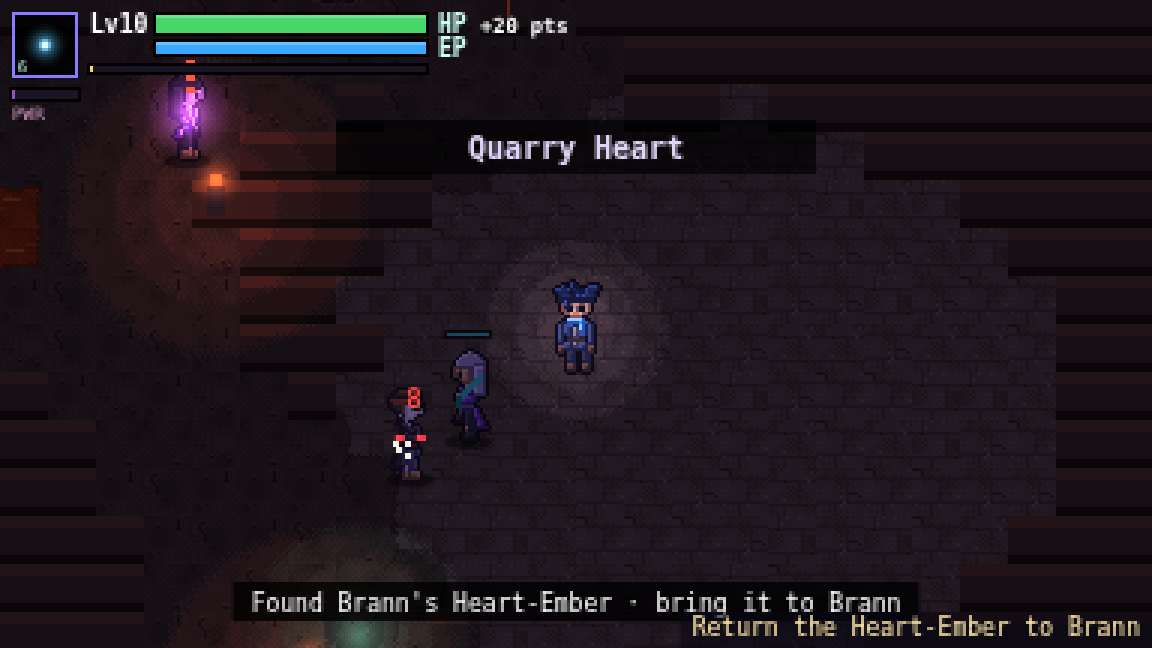
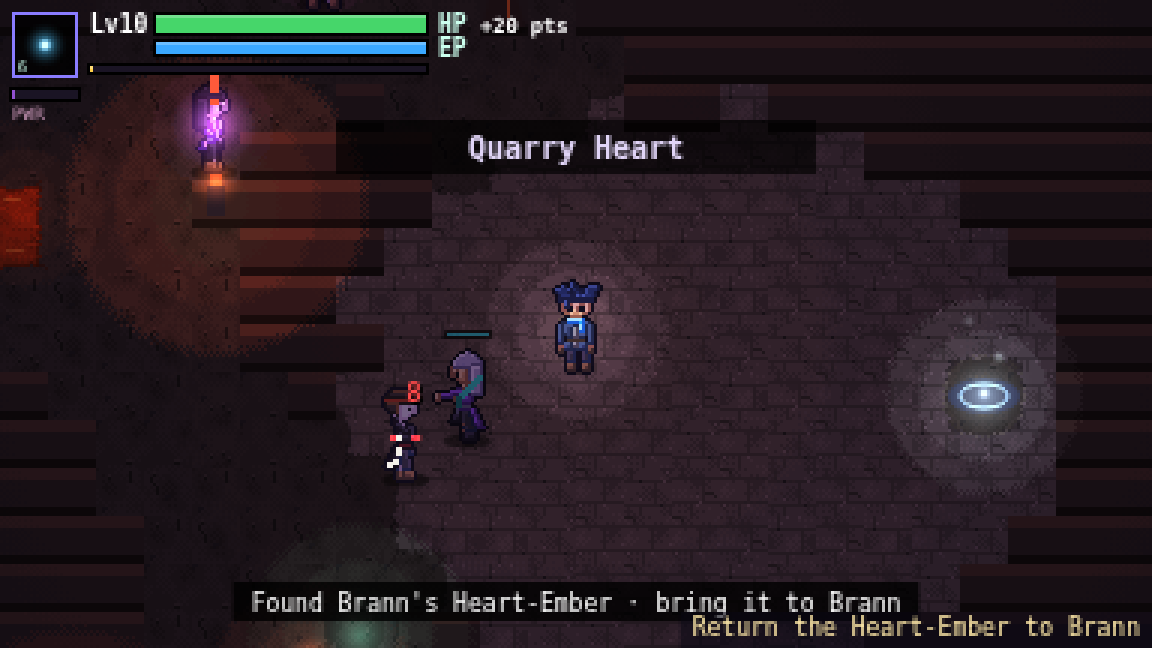
W8: quarry lighting, post-quarry-boss beat (quarryBossDown), area 4 Drowned Vesper

diff --git a/src/areas/art.ts b/src/areas/art.ts
@@ -8,23 +8,24 @@ import { groundSet, drawGround, type GroundSet, type Kind } from "./groundgen";
 type C2 = CanvasRenderingContext2D;
 const PAL = {
   moss: { floor: ["#3d3a46", "#383542"], moss: ["#33452f", "#2f402b"], path: ["#5a4c3c", "#54473a"], wall: ["#3a3448", "#4c4560", "#231f2e"], water: ["#1c2a4a", "#22325a"] },
+  tide: { floor: ["#2a3a40", "#26363c"], moss: ["#1e3a3a", "#1c3636"], path: ["#3c4a4a", "#384646"], wall: ["#2a3438", "#4a5a5c", "#141c20"], water: ["#0e4a5a", "#125664"] },
   ember: { floor: ["#3a2e2a", "#362a26"], moss: ["#2e2626", "#2a2222"], path: ["#5a4232", "#54402e"], wall: ["#3a2a28", "#5a3a30", "#1e1412"], water: ["#8a2a10", "#a03a14"] },
   marsh: { floor: ["#2f3440", "#2b303b"], moss: ["#2c3a3a", "#283636"], path: ["#4a4438", "#454034"], wall: ["#2e2a3e", "#403a56", "#1c1828"], water: ["#241a44", "#2c2052"] },
 };
 
-const GPAL = { moss: { spore: "#6ad8ff", plaza: "#544c5a" }, marsh: { spore: "#b48aff", plaza: "#4c4652" }, ember: { spore: "#ff8a4a", plaza: "#5a4a44" } };
-const GSETS: Partial<Record<"moss" | "marsh" | "ember", GroundSet>> = {};
-const gset = (t: "moss" | "marsh" | "ember") => (GSETS[t] ??= groundSet({ floor: PAL[t].floor[0], moss: PAL[t].moss[0], path: PAL[t].path[0], water: PAL[t].water[0], ...GPAL[t] }, t === "moss" ? 1 : t === "marsh" ? 2 : 3));
+const GPAL = { moss: { spore: "#6ad8ff", plaza: "#544c5a" }, marsh: { spore: "#b48aff", plaza: "#4c4652" }, ember: { spore: "#ff8a4a", plaza: "#6a5650" }, tide: { spore: "#7affe0", plaza: "#4e5e60" } };
+const GSETS: Partial<Record<"moss" | "marsh" | "ember" | "tide", GroundSet>> = {};
+const gset = (t: "moss" | "marsh" | "ember" | "tide") => (GSETS[t] ??= groundSet({ floor: PAL[t].floor[0], moss: PAL[t].moss[0], path: PAL[t].path[0], water: PAL[t].water[0], ...GPAL[t] }, t === "moss" ? 1 : t === "marsh" ? 2 : t === "ember" ? 3 : 4));
 const KIND: Record<number, Kind> = { [T_FLOOR]: "floor", [T_MOSS]: "moss", [T_PATH]: "path", [T_PLAZA]: "plaza", [T_WATER]: "water", [T_HIDDEN]: "water", [T_WARD]: "floor" };
 
-export function tile(c: C2, theme: "moss" | "marsh" | "ember", v: number, X: number, Y: number, tx: number, ty: number, time: number, tiles?: Uint8Array) {
+export function tile(c: C2, theme: "moss" | "marsh" | "ember" | "tide", v: number, X: number, Y: number, tx: number, ty: number, time: number, tiles?: Uint8Array) {
   if (v === T_HIDDEN) v = T_WATER;
   const P = PAL[theme], ch = (tx + ty) & 1;
   const k = KIND[v];
   if (tiles && k && v !== T_WARD) {
     const G = gset(theme);
     drawGround(c, G, k, X, Y, tx, ty, (dx, dy) => { const x = tx + dx, y = ty + dy; return x < 0 || y < 0 || x >= MW || y >= MH ? null : KIND[tiles[y * MW + x]] ?? null; });
-    if (v === T_WATER) { const w = Math.sin(time * 1.6 + tx * 0.9 + ty * 1.3); c.fillStyle = (theme === "marsh" ? "rgba(190,140,255,.22)" : theme === "ember" ? "rgba(255,200,80,.35)" : "rgba(120,200,255,.18)"); c.fillRect(X + 3 + Math.round(w * 2), Y + 6 + ((tx * 5 + ty) % 6), 6, 1); }
+    if (v === T_WATER) { const w = Math.sin(time * 1.6 + tx * 0.9 + ty * 1.3); c.fillStyle = (theme === "marsh" ? "rgba(190,140,255,.22)" : theme === "ember" ? "rgba(255,200,80,.35)" : theme === "tide" ? "rgba(122,255,224,.25)" : "rgba(120,200,255,.18)"); c.fillRect(X + 3 + Math.round(w * 2), Y + 6 + ((tx * 5 + ty) % 6), 6, 1); }
     return;
   }
   if (v === T_WALL) { c.fillStyle = P.wall[0]; c.fillRect(X, Y, TILE, TILE); c.fillStyle = P.wall[1]; c.fillRect(X, Y, TILE, 4); c.fillStyle = P.wall[2]; c.fillRect(X, Y + 13, TILE, 3); }
@@ -32,7 +33,7 @@ export function tile(c: C2, theme: "moss" | "marsh" | "ember", v: number, X: num
   else if (v === T_WATER) {
     c.fillStyle = P.water[ch]; c.fillRect(X, Y, TILE, TILE);
     const k = Math.sin(time * 1.6 + tx * 0.9 + ty * 1.3);
-    c.fillStyle = (theme === "marsh" ? "rgba(190,140,255,.22)" : theme === "ember" ? "rgba(255,200,80,.35)" : "rgba(120,200,255,.18)"); c.fillRect(X + 3 + Math.round(k * 2), Y + 6 + ((tx * 5 + ty) % 6), 6, 1);
+    c.fillStyle = (theme === "marsh" ? "rgba(190,140,255,.22)" : theme === "ember" ? "rgba(255,200,80,.35)" : theme === "tide" ? "rgba(122,255,224,.25)" : "rgba(120,200,255,.18)"); c.fillRect(X + 3 + Math.round(k * 2), Y + 6 + ((tx * 5 + ty) % 6), 6, 1);
   }
   else if (v === T_BOARD) { if (tiles) c.drawImage(gset(theme).base.water[(tx * 7 + ty * 3) & 3], X, Y); else { c.fillStyle = P.water[ch]; c.fillRect(X, Y, TILE, TILE); } c.fillStyle = "#6a5038"; c.fillRect(X + 1, Y, TILE - 2, TILE); c.fillStyle = "#4a3828"; for (let i = 0; i < 4; i++) c.fillRect(X + 1, Y + i * 4 + 3, TILE - 2, 1); }
   else if (v === T_WARD) {
@@ -51,6 +52,21 @@ function forge(c: C2, x: number, y: number) {
   c.fillStyle = "#2a2226"; c.beginPath(); c.moveTo(x - 24, y - 9); c.lineTo(x, y - 24); c.lineTo(x + 24, y - 9); c.fill();
   c.fillStyle = "#3a3036"; c.beginPath(); c.moveTo(x - 20, y - 10); c.lineTo(x, y - 21); c.lineTo(x + 20, y - 10); c.fill();
   c.fillStyle = "#5a4a44"; c.fillRect(x + 9, y - 28, 6, 14); c.fillStyle = "#ff6a2a"; c.fillRect(x + 10, y - 29, 4, 2);
+}
+function dome(c: C2, x: number, y: number) {
+  // tide-theme house: half-drowned stone dome with a cracked sun disc over the door
+  c.fillStyle = "rgba(0,0,0,.4)"; c.beginPath(); c.ellipse(x, y + 10, 26, 6, 0, 0, 7); c.fill();
+  c.fillStyle = "#4a5a5c"; c.fillRect(x - 18, y - 8, 36, 18); c.fillStyle = "#3a484a"; c.fillRect(x - 18, y + 4, 36, 6);
+  c.fillStyle = "#5e7072"; c.beginPath(); c.ellipse(x, y - 8, 20, 14, 0, Math.PI, 0); c.fill();
+  c.fillStyle = "#2a8a7a"; for (const dx of [-14, -6, 9, 15]) c.fillRect(x + dx, y - 6, 2, 10);
+  c.fillStyle = "#10262a"; c.beginPath(); c.ellipse(x, y + 2, 5, 8, 0, Math.PI, 0); c.fill(); c.fillRect(x - 5, y + 2, 10, 8);
+  c.fillStyle = "#c8b060"; c.beginPath(); c.arc(x, y - 14, 4, 0, 7); c.fill(); c.fillStyle = "#5e7072"; c.fillRect(x + 1, y - 18, 1, 8);
+  c.fillStyle = "#7affe0"; c.fillRect(x - 12, y - 2, 3, 3); c.fillRect(x + 10, y - 2, 3, 3);
+}
+function pillar(c: C2, x: number, y: number) {
+  c.fillStyle = "rgba(0,0,0,.35)"; c.beginPath(); c.ellipse(x, y + 5, 8, 3, 0, 0, 7); c.fill();
+  c.fillStyle = "#5e7072"; c.fillRect(x - 5, y - 20, 10, 25); c.fillStyle = "#4a5a5c"; c.fillRect(x - 5, y - 20, 3, 25); c.fillStyle = "#788a8c"; c.fillRect(x - 7, y - 23, 14, 4);
+  c.fillStyle = "#2a8a7a"; c.fillRect(x - 3, y - 6, 2, 9); c.fillRect(x + 2, y - 12, 2, 5); c.fillStyle = "#7affe0"; c.fillRect(x + 2, y - 13, 1, 1);
 }
 function house(c: C2, x: number, y: number) {
   // 3x2 tile footprint centred at (x, y): wooden walls under a giant blue mushroom cap
@@ -114,7 +130,7 @@ export function worldSprites(c: C2, g: Game, cx: number, cy: number, list: { y: 
   for (const p of a.props) {
     const X = p.x - cx, Y = p.y - cy;
     if (X < -40 || X > 424 || Y < -40 || Y > 260) continue;
-    list.push({ y: p.y + (p.kind === "house" ? 8 : 0), d: () => p.kind === "house" ? (a.theme === "ember" ? forge(c, X, Y) : house(c, X, Y)) : p.kind === "crystal" ? crystal(c, X, Y) : p.kind === "tree" ? (a.theme === "ember" ? spire(c, X, Y) : tree(c, X, Y, marsh)) : grave(c, X, Y) });
+    list.push({ y: p.y + (p.kind === "house" ? 8 : 0), d: () => p.kind === "house" ? (a.theme === "ember" ? forge(c, X, Y) : a.theme === "tide" ? dome(c, X, Y) : house(c, X, Y)) : p.kind === "crystal" ? crystal(c, X, Y) : p.kind === "tree" ? (a.theme === "ember" ? spire(c, X, Y) : a.theme === "tide" ? pillar(c, X, Y) : tree(c, X, Y, marsh)) : grave(c, X, Y) });
   }
   for (const n of a.npcs) list.push({ y: n.y, d: () => npc(c, n.id, a.id, n.x - cx, n.y - cy, g.time) });
   for (const s of a.travel) {
@@ -129,7 +145,12 @@ export function bindStory(s: Story) { st = s; }
 /** Light sources for the multiply layer. */
 export function worldLights(g: Game, cx: number, cy: number, add: (x: number, y: number, r: number, col: [number, number, number], f: number) => void) {
   for (const p of g.area.props) if (p.kind === "crystal") add(p.x - cx, p.y - cy - 8, 40, [0.45, 0.95, 1], 0);
-  for (const p of g.area.props) if (p.kind === "house") add(p.x - cx, p.y - cy - 12, 56, g.area.theme === "ember" ? [1, 0.5, 0.2] : [0.35, 0.55, 1], 0);
+  for (const p of g.area.props) if (p.kind === "house") add(p.x - cx, p.y - cy - 12, 56, g.area.theme === "ember" ? [1, 0.5, 0.2] : g.area.theme === "tide" ? [0.3, 0.9, 0.8] : [0.35, 0.55, 1], 0);
+  if (g.area.theme === "ember" || g.area.theme === "tide") { // lava / glowing canals light the scene
+    const t = g.area.tiles, x0 = Math.max(0, Math.floor(cx / 16)), y0 = Math.max(0, Math.floor(cy / 16));
+    for (let ty = y0; ty < Math.min(34, y0 + 15); ty += 2) for (let tx = x0; tx < Math.min(48, x0 + 25); tx += 2) if (t[ty * 48 + tx] === T_WATER) add(tx * 16 + 8 - cx, ty * 16 + 8 - cy, 44, g.area.theme === "ember" ? [0.55, 0.22, 0.08] : [0.1, 0.35, 0.35], 0);
+    if (g.area.id === "emberquarry") add(192, 108, 320, [0.16, 0.1, 0.07], 0);
+  }
   for (const s of g.area.travel) add(s.x - cx, s.y - cy, 52, [0.7, 0.9, 1], 0);
   for (const n of g.area.npcs) add(n.x - cx, n.y - cy - 12, 30, [0.8, 0.75, 0.7], 0);
   for (const s of g.area.springs) add(s.x - cx, s.y - cy, 60, [0.5, 1, 0.8], 0);
@@ -140,7 +161,7 @@ export function worldGlow(c: C2, g: Game, cx: number, cy: number, glow: (c: C2, 
   for (const p of g.area.props) {
     if (p.kind === "house") { glow(c, p.x - cx, p.y - cy - 16, 22, g.area.theme === "ember" ? "rgba(255,120,40,.35)" : "rgba(80,140,255,.35)"); glow(c, p.x - cx - 10, p.y - cy - 2, 5, "rgba(255,210,140,.7)"); glow(c, p.x - cx + 10, p.y - cy - 2, 5, "rgba(255,210,140,.7)"); }
     else if (p.kind === "crystal") glow(c, p.x - cx + 2, p.y - cy - 8, 14, "rgba(120,240,255,.5)");
-    else if (p.kind === "tree") glow(c, p.x - cx, p.y - cy - 17, 10, g.area.theme === "marsh" ? "rgba(170,110,255,.45)" : g.area.theme === "ember" ? "rgba(255,110,40,.4)" : "rgba(90,220,240,.4)");
+    else if (p.kind === "tree") glow(c, p.x - cx, p.y - cy - 17, 10, g.area.theme === "marsh" ? "rgba(170,110,255,.45)" : g.area.theme === "ember" ? "rgba(255,110,40,.4)" : g.area.theme === "tide" ? "rgba(122,255,224,.35)" : "rgba(90,220,240,.4)");
   }
   for (const s of g.area.springs) {
     const X = s.x - cx, Y = s.y - cy, k = 0.6 + 0.4 * Math.sin(g.time * 2.4);
@@ -196,7 +217,7 @@ export function storyOverlay(c: C2, g: Game, s: Story, W: number, H: number) {
 /** Lens map of the current area: terrain, zone names, hearthstone, stones, NPCs, foes, hero. */
 export function areaMap(c: C2, g: Game, ox: number, oy: number, s: number) {
   const a = g.area, M = 48;
-  const col: Record<number, string> = { [T_WALL]: "#4c4560", [T_PLAZA]: "#6a6070", [T_WATER]: a.theme === "marsh" ? "#2a1e52" : a.theme === "ember" ? "#a03a14" : "#1c2e58", [T_PATH]: "#5a4c3c", [T_BOARD]: "#7a5a3a", [T_MOSS]: "#2a3c2a", [T_HIDDEN]: a.theme === "marsh" ? "#2a1e52" : "#1c2e58", [T_WARD]: wardOpen ? "#26232e" : "#7ff0ff" };
+  const col: Record<number, string> = { [T_WALL]: "#4c4560", [T_PLAZA]: "#6a6070", [T_WATER]: a.theme === "marsh" ? "#2a1e52" : a.theme === "ember" ? "#a03a14" : a.theme === "tide" ? "#125664" : "#1c2e58", [T_PATH]: "#5a4c3c", [T_BOARD]: "#7a5a3a", [T_MOSS]: "#2a3c2a", [T_HIDDEN]: a.theme === "marsh" ? "#2a1e52" : "#1c2e58", [T_WARD]: wardOpen ? "#26232e" : "#7ff0ff" };
   for (let y = 0; y < 34; y++) for (let x = 0; x < M; x++) { c.fillStyle = col[a.tiles[y * M + x]] ?? "#26232e"; c.fillRect(ox + x * s, oy + y * s, Math.ceil(s), Math.ceil(s)); }
   for (const p of a.props) { c.fillStyle = p.kind === "house" ? "#3c64c8" : p.kind === "tree" ? "#48b0c0" : "#8a8aa0"; c.fillRect(ox + (p.x / TILE) * s - 1.5, oy + (p.y / TILE) * s - 1.5, 3, 3); }
   c.font = "6px monospace"; c.textAlign = "center"; c.fillStyle = "rgba(255,240,200,.85)";
@@ -211,9 +232,9 @@ export function areaMap(c: C2, g: Game, ox: number, oy: number, s: number) {
 
 /** World-map flight screen: the Mirrorfen Reaches, a dotted route and the hero's glow riding the updraft. */
 const SPOTS: Record<string, { x: number; y: number; name: string }> = {
-  lanternmoss: { x: 0.28, y: 0.58, name: "Lanternmoss Hollow" }, hushwater: { x: 0.7, y: 0.38, name: "Hushwater" }, kilnreach: { x: 0.86, y: 0.72, name: "Kilnreach" }, emberquarry: { x: 0.9, y: 0.84, name: "Emberheart Quarry" },
+  lanternmoss: { x: 0.28, y: 0.58, name: "Lanternmoss Hollow" }, hushwater: { x: 0.7, y: 0.38, name: "Hushwater" }, kilnreach: { x: 0.86, y: 0.72, name: "Kilnreach" }, emberquarry: { x: 0.9, y: 0.84, name: "Emberheart Quarry" }, drowned: { x: 0.52, y: 0.16, name: "Drowned Vesper" },
 };
-const LOCKED = [{ x: 0.3, y: 0.8, name: "Wellspring Grotto" }, { x: 0.52, y: 0.16, name: "???" }];
+const LOCKED = [{ x: 0.3, y: 0.8, name: "Wellspring Grotto" }];
 function flightMap(c: C2, g: Game, s: Story, W: number, H: number) {
   const glow = (c: C2, x: number, y: number, r: number, col: string) => { const gr = c.createRadialGradient(x, y, 0, x, y, r); gr.addColorStop(0, col); gr.addColorStop(1, "rgba(0,0,0,0)"); c.fillStyle = gr; c.fillRect(x - r, y - r, r * 2, r * 2); };
   const T = 3.2, t = T - s.fly, a = Math.max(0, Math.min(1, t / 0.4, s.fly / 0.4));

diff --git a/src/story/index.ts b/src/story/index.ts
@@ -84,9 +84,15 @@ export class Story {
     }
     for (const s of g.area.travel) if (Math.hypot(s.x - g.p.x, s.y - g.p.y) < 10 && !this.flags.stoneT) {
       this.flags.stoneT = true;
+      if (s.to === "drowned" && !this.flags.quarryBossDown) { this.say("Rune slab", ["A slab in the arena wall, carved with a drowned sun. It's dark.", "Whatever is drinking the Quarry Heart is still here. Deal with it first."]); return true; }
       if (s.to === "emberquarry" && !this.flags.brannQ) { this.say("Quarry lift", ["A rune-lift down into the quarry. It's locked with a smith's seal.", "Brann in Forge Square would have the key."]); return true; }
       if (s.to === "kilnreach" && !this.flags.oath) { this.say("Updraft stone", ["This slab is cold and points east, toward a red glow on the mountains.", "It won't wake for a stranger. Maybe after Mirela trusts you."]); return true; }
       this.say("Updraft stone", [`The rune slab hums. Ride the updraft to ${s.label}?`, "(Melee to fly. Step off to stay.)"], () => { this.fly = 3.2; this.flyTo = s.to; this.flyFrom = g.area.id; });
+      return true;
+    }
+    if (this.flags.quarryBossDown && !this.flags.quarryBeat && g.area.id === "emberquarry") { // post-quarry-boss beat (flag set by Master Builder's boss)
+      this.flags.quarryBeat = true; this.save(); g.gainExp(120);
+      this.say("Brann Okoro", ["...It's over. Feel that? The stone's warm again under my boots.", "That thing wore a sun on its chest, a dead one, like the carvings on that slab by the wall.", "Mirela says the wraiths whisper a name: Malachar. I've a feeling he's the one doing the drinking.", "The slab's glowing now. Wherever it goes, we go."]);
       return true;
     }
     const kills = g.stats.kills;
@@ -104,6 +110,7 @@ export class Story {
       const k = `orb_${g.area.id}_${o.i}`;
       if (!this.flags[k] && Math.hypot(o.x - g.p.x, o.y + 6 - g.p.y) < 14) {
         this.flags[k] = true;
+        if (g.area.id === "drowned") { this.flags.sigil = true; this.save(); g.say("Found a sun-sigil · show it to Neri", 2.5); continue; }
         if (g.area.id === "emberquarry") { this.flags.heart = true; this.save(); g.say("Found Brann's Heart-Ember · bring it to Brann", 2.5); continue; }
         if (g.area.id !== "lanternmoss") { this.flags.bell = true; this.save(); g.say("Found the Ferry Bell · bring it to Fen Marrow", 2.5); continue; }
         this.flags.orbs = ((this.flags.orbs as number) || 0) + 1; this.save();
@@ -126,11 +133,13 @@ export class Story {
     this.say(def.name, def.lines(this.flags), () => {
       if (id === "a") this.flags.metAma = true;
       if (id === "m") this.flags.metMirela = true;
+      if (id === "n") this.flags.metNeri = true;
       const F = this.flags;
       if (id === "f" && F.bell && !F.bellDone) { F.bellDone = true; g.gainExp(80); g.say("Ferry Bell returned · +80 EXP", 2.5); }
       if (id === "h") { if (!F.reedQ) F.reedQ = true; else if ((F.reedN as number) >= 8 && !F.reedDone) { F.reedDone = true; g.gainExp(100); g.pts += 2; g.say("Quiet the Meadow complete · +100 EXP, +2 pts", 2.5); } }
       if (id === "m" && F.bellDone && F.reedDone && !F.oath) { F.oath = true; g.gainExp(150); g.say("Lantern Oath · Mirela will join you · +150 EXP", 3); }
       if (id === "k" && !F.metBrann) { F.metBrann = true; F.brannQ = true; g.gainExp(60); g.say("Quest: Brann's Heart-Ember · +60 EXP", 2.5); }
+      if (id === "n" && F.sigil && !F.sigilDone) { F.sigilDone = true; g.gainExp(200); g.pts += 2; g.say("Neri reads the sigil · +200 EXP, +2 pts", 3); }
       else if (id === "k" && F.heart && !F.brann) { F.brann = true; g.gainExp(150); g.pts += 2; g.say("Heart-Ember returned · Brann will join you · +150 EXP", 3); }
       if (id === "p" && (this.flags.orbs as number) >= 6 && !this.flags.orbsDone) { this.flags.orbsDone = true; g.gainExp(120); g.say("Lost Lanterns complete · +120 EXP", 2.5); }
       this.flags["talked_" + g.area.id + id] = true; this.save();
@@ -138,7 +147,9 @@ export class Story {
   }
   objective(): string {
     const f = this.flags, g = this.g;
+    if (g.area.id === "drowned") return f.sigilDone ? "Vesper remembers the Sunwarden · more below the tide (coming soon)" : f.sigil ? "Show the sun-sigil to Neri in Tidewarden Court" : f.metNeri ? "Find the sun-sigil on Sigil Quay (SE)" : "Find the tide-keeper in Tidewarden Court";
     if (g.area.id === "kilnreach") return f.brann ? "Brann is with you · the Quarry Heart waits below" : f.heart ? "Bring the Heart-Ember to Brann" : f.metBrann ? "Take the quarry lift (Quarry Road east) · find the Heart-Ember" : "Find the quarry-smith in Forge Square";
+    if (g.area.id === "emberquarry" && f.quarryBossDown) return "The Quarry Heart is quiet · the drowned-sun slab is awake";
     if (g.area.id === "emberquarry") return f.heart ? (f.brann ? "The Quarry Heart: something drinks the embers" : "Return the Heart-Ember to Brann") : "Find Brann's Heart-Ember in the seam";
     if (g.area.id === "hushwater") {
       if (!f.metMirela) return "Find the graveyard keeper on the hill";

diff --git a/src/story/script.ts b/src/story/script.ts
@@ -43,9 +43,18 @@ export const NPCS: Record<string, Record<string, NpcDef>> = {
     r: { name: "Orrin Cask", coat: "#3a3a2a", hair: "#806040", skin: "#c89870", trim: "#ffb060", tall: -2, lines: () =>
       ["Ferry's closed. Bell's gone. Fog's thick. It's a whole thing.", "Fen keeps a bell for the fog. Lose it and the boats go in circles. Ask him about it."] },
   },
+  drowned: {
+    n: { name: "Neri Calloway", coat: "#1e4a52", hair: "#d0e8e0", skin: "#b88a70", trim: "#7affe0", lines: (f) =>
+      f.sigilDone ? ["This sigil belonged to the Sunwarden's own guard. The man who kept the sun lit.", "If a Sunwarden is draining the Wellsprings... then he isn't keeping the light anymore. He's hoarding it."]
+        : f.sigil ? ["Let me see it. Hold it to the light. Oh."]
+        : ["You came down the slab from the mountain? Nobody's used it since the tide rose.", "Neri Calloway. I keep the records of Vesper, what the sea left of them.", "There's a sun-sigil on Sigil Quay, south-east. The shades won't let me near it. Bring it and I'll tell you what it means."] },
+    x: { name: "Old Calder", coat: "#3a4a48", hair: "#a0a0a0", skin: "#c8a080", trim: "#c8b060", tall: -2, lines: () =>
+      ["The water rose the night the sun went out. Three hundred years, and my feet are still wet.", "The canals glow because the Wellspring is down there somewhere, drowned. Still breathing."] },
+  },
   kilnreach: {
     k: { name: "Brann Okoro", coat: "#5a3428", hair: "#1a1210", skin: "#8a5a3a", trim: "#ff7a2a", tall: 2, lines: (f) =>
-      f.brann ? ["That's my heart-ember, still warm. I owe you a mountain.", "Down in the Quarry Heart, something big is drinking. When you go, my hammer goes with you."]
+      f.quarryBossDown ? ["You felt it too? The mountain's heartbeat is steady again.", "That thing down there wore a sun on its chest, a dead one. Same sun I saw carved on the old slab in the arena wall.", "The slab is awake now. It points to Vesper, the city the sea took. Let's go see who carved it."]
+      : f.brann ? ["That's my heart-ember, still warm. I owe you a mountain.", "Down in the Quarry Heart, something big is drinking. When you go, my hammer goes with you."]
       : f.heart ? ["You found it! Hand it here. Carefully."]
       : f.metBrann ? ["Still looking? The seam is past the galleries, north and east from the lift. It glows like a coal.", "The mountain's heartbeat's heartbeat is skipping. Something below the quarry is drinking the embers, same as your spring.", "When you go down there, I'm coming. My hammer's been bored for weeks."]
         : ["You flew in on the updraft? Ha. Nobody uses that slab anymore.", "Brann Okoro, quarry-smith. Where I come from the stone has a heartbeat, and I keep it warm with mine.", "You're the lamp-lighter? Then we're after the same thief. Something is draining things: your water, my fire.", "I dropped my Heart-Ember in the quarry when the shades came. It's the core that keeps my forge, and me, warm. Here's the lift seal. Bring it back?"] },

diff --git a/src/areas/maps.ts b/src/areas/maps.ts
@@ -133,7 +133,7 @@ export const EMBERQUARRY = [
   "#######.....#########..~~....###=============###",
   "#####..w....#########.g......##===============##",
   "####.........#########.......###==============##",
-  "####....~~~L.############.....#===============##",
+  "####....~~~L.############.....#=============Y=##",
   "####.T..~~~.##############.....===============##",
   "#####....~~..#############......==============##",
   "######........#############...g.=============###",
@@ -154,3 +154,41 @@ export const EMBERQUARRY = [
 ];
 /** Quarry boss arena centre (tiles) for Master Builder's boss: open round chamber, radius ~7. */
 export const QUARRY_ARENA = { tx: 38, ty: 16, r: 7 };
+
+/** Drowned Vesper: a sunken sun-city of canals and broken courts; Tidewarden Court in the middle. Area 4. */
+export const DROWNED = [
+  "################################################",
+  "#~~~~~~~~~~~~~~~~~~~~~~~~~~~~~~~~~~~~~~~~~~~~~~#",
+  "#~.........~~~.........~~~.........~~~~~~~~~~~~#",
+  "#~......S..~~~.........~~~.........~~..........#",
+  "#~..U......~~~....g##..~~~.........~T.......##.#",
+  "#~.........bbb.##......bbb....w....~~....##....#",
+  "#~...@.....~~~..##.....~~~..##.....bb.....g....#",
+  "#~.........~~~.........~~~.........~~..........#",
+  "#~.........~~~.........~~~.........~~..........#",
+  "#~~~~~b~~~~~~~.........~~~~~~~~~~~~~~........T.#",
+  "#~~~~~b~~~~~~~~~~~~~b~~~~~~~~~~~~~~~~..........#",
+  "#~~~~~b~~~~~~~~~~~~~b~~~~~~~~~~~~~~~~~~~b~~~~~~#",
+  "#~..........~~~~~~~~b~~~~~~~~~~~~~~~~~~~b~~~~~~#",
+  "#~.H........~~~.T.............T.~~~............#",
+  "#~..........~~~.....##..........~~~......##....#",
+  "#~..........~~~..L===========L..~~~.......H....#",
+  "#~....w.....~~~..======K======..~~~.....g......#",
+  "#~..........bbb..===n=========..bbb............#",
+  "#~..##......~~~..=========x===..~~~............#",
+  "#~.......H..~~~..=============..~~~....H....w..#",
+  "#~..........~~~..=============..~~~............#",
+  "#~~~~~~b~~~~~~~.................~~~............#",
+  "#~~~~~~b~~~~~~~.T.............T.~~~~~~b~~~~~~~~#",
+  "#~~~~~~b~~~~~~~~~~~~~b~~~~~~~~~~~~~~~~b~~~~~~~~#",
+  "#~...........~~~~~~~~b~~~~~~~~~~~~~~~~b~~~~~~~~#",
+  "#~...L#......~~~...........~~~.................#",
+  "#~...........~~~.......##..~~~..............L..#",
+  "#~...........~~~...........~~~.................#",
+  "#~...#g......bbb.......##..bbb.....g...........#",
+  "#~...........~~~.##.w......~~~..............*#.#",
+  "#~.##........~~~...........~~~............w....#",
+  "#~.T.........~~~.........T.~~~.................#",
+  "#~...........~~~...........~~~.................#",
+  "################################################",
+];

diff --git a/src/world.ts b/src/world.ts
@@ -1,5 +1,5 @@
 /** Areas: ASCII maps (src/areas/maps.ts) -> tiles, lamps, props, NPCs, spawns, gates and updraft stones. */
-import { LANTERNMOSS, HUSHWATER, KILNREACH, EMBERQUARRY } from "./areas/maps";
+import { LANTERNMOSS, HUSHWATER, KILNREACH, EMBERQUARRY, DROWNED } from "./areas/maps";
 export const TILE = 16;
 export const MW = 48, MH = 34;
 export const T_FLOOR = 0, T_WALL = 1, T_MOSS = 2, T_PLAZA = 3, T_WATER = 4, T_PATH = 5, T_BOARD = 6, T_WARD = 7, T_HIDDEN = 8;
@@ -11,7 +11,7 @@ export interface Travel { x: number; y: number; to: string; label: string }
 export interface Orb { i: number; x: number; y: number }
 export interface Ward { tx: number; ty: number; lvl: number }
 export interface Area {
-  id: string; name: string; music: string; theme: "moss" | "marsh" | "ember";
+  id: string; name: string; music: string; theme: "moss" | "marsh" | "ember" | "tide";
   tiles: Uint8Array; lamps: Lamp[]; pad: { x: number; y: number }; start: { x: number; y: number }; spawns: Spawn[];
   props: Prop[]; npcs: Npc[]; orbs: Orb[]; springs: { x: number; y: number }[]; travel: Travel[]; wards: Ward[];
   zones: { name: string; x0: number; y0: number; x1: number; y1: number }[];
@@ -31,9 +31,15 @@ export const AREA_DEFS: Record<string, Def> = {
     zones: [{ name: "Hushwater Landing", x0: 1, y0: 1, x1: 5, y1: 6 }, { name: "Hushwater Town", x0: 16, y0: 5, x1: 33, y1: 13 },
       { name: "Lantern Graveyard", x0: 34, y0: 1, x1: 46, y1: 9 }, { name: "Sunken Meadow", x0: 0, y0: 14, x1: 47, y1: 33 }, { name: "Hushwater Fen", x0: 0, y0: 0, x1: 47, y1: 33 }],
   },
+  drowned: {
+    id: "drowned", name: "Drowned Vesper", music: "area1-theme", theme: "tide", rows: DROWNED, lamp: [0.4, 0.95, 0.85],
+    to: "kilnreach", toLabel: "Kilnreach", wardLvl: 0,
+    zones: [{ name: "Tidewarden Court", x0: 15, y0: 13, x1: 31, y1: 22 }, { name: "Sunken Landing", x0: 1, y0: 1, x1: 11, y1: 9 },
+      { name: "Sigil Quay", x0: 36, y0: 24, x1: 46, y1: 32 }, { name: "Drowned Vesper", x0: 0, y0: 0, x1: 47, y1: 33 }],
+  },
   emberquarry: {
     id: "emberquarry", name: "Emberheart Quarry", music: "area1-theme", theme: "ember", rows: EMBERQUARRY, lamp: [1, 0.4, 0.2],
-    to: "kilnreach", toLabel: "Kilnreach", wardLvl: 0,
+    to: "kilnreach", toLabel: "Kilnreach", to2: "drowned", to2Label: "Drowned Vesper", wardLvl: 0,
     zones: [{ name: "Quarry Heart", x0: 31, y0: 9, x1: 46, y1: 23 }, { name: "Smith's Lift", x0: 1, y0: 2, x1: 8, y1: 6 }, { name: "Heart-Ember Seam", x0: 28, y0: 3, x1: 36, y1: 9 },
       { name: "Cinder Galleries", x0: 0, y0: 0, x1: 47, y1: 33 }],
   },

diff --git a/HANDOFF.md b/HANDOFF.md
@@ -39,3 +39,15 @@
 - **Boss arena slot for Master Builder:** a round open chamber, zone "Quarry Heart", exported as `QUARRY_ARENA = { tx: 38, ty: 16, r: 7 }` from src/areas/maps.ts. No boss is wired there yet.
 - Brann quest: talking to him the first time sets metBrann and brannQ (+60 EXP) and unseals the Kilnreach quarry lift `Y` (Quarry Road east). Picking up the orb sets flags.heart. Handing it in sets **flags.brann** (+150 EXP, +2 pts). Companion join is Master Builder's: hook on flags.brann the same way as Mirela/oath.
 - tests/world.mjs is now 29/29. Screenshots: docs/bill/kilnreach.png, quarry.png, quarry-arena.png.
+
+## W8 (executor, 11:20 PM): brighter quarry, post-boss beat, area 4 Drowned Vesper
+- **For Master Builder:** when the quarry boss dies, set story flag **`quarryBossDown = true`** (`window.__ki.story.flags.quarryBossDown = true; story.save()`, or from game via the bound story). The story layer handles everything after that:
+  - a one-time Brann scene in the quarry (flag quarryBeat, +120 EXP, first Malachar name-drop);
+  - new Brann lines;
+  - it wakes the drowned-sun slab `Y` at the arena's east edge (38+6,16), which flies you to area 4.
+  - Keep the boss arena clear of (44,16).
+- Quarry lighting: lava tiles now cast light (ember and tide themes), plus a soft fill light in emberquarry.
+- Area 4 `drowned` "Drowned Vesper" (theme `tide`, maps.ts DROWNED): a sunken sun-city of canal blocks and bridges. Its centre is Tidewarden Court, with Neri Calloway (n), Old Calder (x) and a spring. Houses draw as stone domes and trees as coral pillars. 10 spawns. Fits staging world.md, where area 4 is a drowned city.
+  - Quest: the sun-sigil orb on Sigil Quay sets flags.sigil. Showing it to Neri sets flags.sigilDone (+200 EXP, +2 pts) and gives the Sunwarden-guard reveal.
+  - Flight map: the last ??? spot is now Drowned Vesper.
+- tests/world.mjs is 33/33 and simulates the boss flag. Screenshots: docs/bill/quarry-after-boss.png, drowned.png, map-area4.png.
